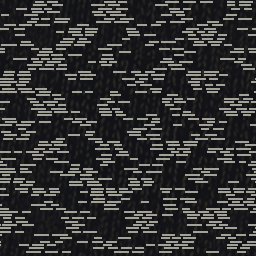
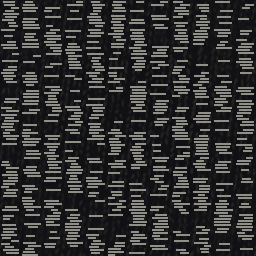
cabin777 econ w9 (from A 7.3 / B 7.3): diamond rebuilt as crisp serrated dash-run diamonds on a dominant navy ground (w8 holes reverted), mosaic rebuilt as an axis-aligned staggered column grid of dash cells, fleck pads restored on fleck backs, lighter satin covers with a hem band, back-top centre s
- y_diamond: 0.045-0.06 m stepped diamonds of 2 px dash runs with jittered ends, ~35 % of lattice sites empty, bright
  specks inside, lift (3.5, 3.3, 2.6), ground darkened 15 % (w9 A + B: light area 0.46-0.49 vs 0.10-0.22, p90/p50
  1.37 vs 2.1); tile light area 0.18
- y_mosaic: 12 x 9 cells (16.7 x 22 mm), alternate columns offset half a cell, dense 48 % / sparse 22 %, 1 px seams
  (w9 A: diagonal clumps; B: leopard print from empty sparse cells)
- Pads: fleck backs -> fleck (w9 B 4x crop of y_47300); yCover #535b7c r 0.38 (w9 A: covers 1.25-1.7x the backs);
  yFabric #55607f (A / B tick measurements disagree, set between)
- Cover hem band + stitch; 0.12 m centre strip from pad top to back top (y_47306); pillow corners pulled out +
  centre dimple; net of 24 + 11 thin quads per pouch, dark hems under the flap, charcoal strap; bezel #2a2932 with a
  #5a6072 frame ring, screen raised 4 mm (chin 11 %)

Shared-file edits: 09_seats.js (SEATMAT yFabric, yCover), test/make_swatches.py (y_diamond, y_mosaic),
tex/tex_y_diamond.png, tex/tex_y_mosaic.png.

Claude-Session: https://claude.ai/code/session_01CDNepdnu7dWZvBrRdxsgp9

diff --git a/cabin777/src/09a_econ.js b/cabin777/src/09a_econ.js
@@ -48,8 +48,8 @@ function econSeat(B, x0, lod, opts = {}) {
   // w6 B: narrower pad (0.355) with an undercut at its foot, so a shadow line and a margin of back fabric outline it
   // (y_47300); w6 A: each cushion in a different weave from its back (y_47306: diamond back / mosaic pad, tick / fleck,
   // mosaic / diamond); fleck backs keep fleck pads (y_47300 seats 2 / 4) [V]
-  // w8 B: fleck backs carry a light mosaic pad (y_47300 seats 2 / 4)
-  const HF = F === SEATMAT.yFabricB || F === SEATMAT.yFabricD ? SEATMAT.yFabricC : F === SEATMAT.yFabricC ? SEATMAT.yFabricB : SEATMAT.yHead;
+  // w9 B: fleck backs keep fleck pads (a 4x crop of y_47300 seats 2 / 4 shows fine speckle; the w8 mosaic pads were wrong)
+  const HF = F === SEATMAT.yFabricB ? SEATMAT.yFabricC : F === SEATMAT.yFabricC ? SEATMAT.yFabricB : SEATMAT.yHead;
   // w7 A + B: a U-shaped pad ~0.39 wide (0.90-0.96 of the back in y_47306 / 47302, sans 13) - a centre panel behind the
   // cover and two round wing bolsters ~2 cm proud of it at both ends; 0.025 lower so the back rises ~5.5 cm above the
   // cover fold (y_47306 0.053-0.073, y_47301 ~0.06; the fold showed above the hood from behind) [D]
@@ -67,7 +67,12 @@ function econSeat(B, x0, lod, opts = {}) {
   if (lod) return;
   // small ANA mark in the flap's lower corner (viewer's right from the front, y_47306); w5 B: a thin grey logotype, not a sticker
   B.add(gQuad(0.014, 0.006), M4.mul(BH, M4.trs(-0.105, 0.60, -0.1005, Math.PI)), { c: '#5a6079', r: 0.45 });
-  B.add(gQuad(0.24, 0.0012), M4.mul(BH, M4.trs(0, 0.592, -0.1003, Math.PI)), { c: '#30354a', r: 0.5 });   // stitch line
+  // w9 A: a stitched hem band ~10 % of the cover height, a shade lighter and glossier (y_47306)
+  B.add(gQuad(0.253, 0.02), M4.mul(BH, M4.trs(0, 0.596, -0.1003, Math.PI)), { c: '#5d6585', r: 0.32 });
+  B.add(gQuad(0.24, 0.0012), M4.mul(BH, M4.trs(0, 0.6065, -0.1006, Math.PI)), { c: '#2c3146', r: 0.5 });   // stitch line
+  // w9 A: a ~0.12 m centre strip in a contrasting weave runs from the pad top to the back top (headrest track cover,
+  // y_47306 right / middle seats) [V]
+  loftAt(B, [SEC(0.778, 0.12, 0.004, -0.032, 0.002), SEC(0.818, 0.12, 0.004, -0.0275, 0.002), SEC(0.842, 0.115, 0.004, -0.0235, 0.002)], BH, F === SEATMAT.yFabricB ? SEATMAT.yFabric : SEATMAT.yFabricB, 1);
   const on = (y, dz = 0, dx = 0) => M4.mul(BH, M4.trs(dx, y, zr(y) + dz));   // on the rear face
   // navy pillow resting on the cushion at the crease, ~0.35 x 0.24 (y_47300 aspect 0.65-0.7; sans 14 ~0.8 of the pan) [D]
   // w5 B: soft pillow, not a bevelled slab - a squashed sphere with pinched corners, slightly concave sides and a ~7 cm
@@ -78,8 +83,9 @@ function econSeat(B, x0, lod, opts = {}) {
       const sx = g.p[k], sy = g.p[k + 1], sz = g.p[k + 2], l = Math.hypot(sx, sz) || 1;
       const X = Math.sign(sx) * Math.pow(Math.abs(sx / l), 0.45) * l, Z = Math.sign(sz) * Math.pow(Math.abs(sz / l), 0.45) * l;
       // w6: wider (0.39 = 0.8 of the pan, y_47300 0.81 / sans 14 0.83), bow-tie outline with pinched corners
-      g.p[k] = 0.195 * X * (1 - 0.18 * (1 - Z * Z)); g.p[k + 2] = 0.13 * Z * (1 - 0.18 * (1 - X * X));
-      g.p[k + 1] = sy * (0.004 + 0.034 * Math.sqrt(Math.max(0, (1 - Math.pow(Math.abs(X), 4)) * (1 - Math.pow(Math.abs(Z), 4)))));
+      const pull = 1 + 0.15 * Math.abs(X * Z);                                  // w9 A: corners pulled out (y_47300)
+      g.p[k] = 0.195 * X * (1 - 0.18 * (1 - Z * Z)) * pull; g.p[k + 2] = 0.13 * Z * (1 - 0.18 * (1 - X * X)) * pull;
+      g.p[k + 1] = sy * (0.004 + 0.034 * Math.sqrt(Math.max(0, (1 - Math.pow(Math.abs(X), 4)) * (1 - Math.pow(Math.abs(Z), 4))))) * (1 - 0.25 * Math.exp(-(X * X + Z * Z) / 0.08));   // + centre dimple
     }
     computeNormals(g);
     B.add(g, M4.mul(BH, M4.trs(0, 0.14, -0.10, 0, -80 * DEG)), SEATMAT.yPillow);
@@ -92,9 +98,9 @@ function econSeat(B, x0, lod, opts = {}) {
     // 13.3 in touchscreen (0.294 x 0.166) in a black glass border 0.316 x 0.205 set flush in the hood face, top ~0.03
     // below the hood's rounded top (y_47305: 600 x 390 px at 1905 px/m, colour (29,26,38); 55 px of shell above) [D]
     const SY = 0.7275;
-    B.add(gRBox(0.322, 0.211, 0.004, 0.007, 1), on(SY, -0.0005), { c: '#9ea2a8', r: 0.5 });      // shadow gap round the glass
-    B.add(gRBox(0.316, 0.205, 0.004, 0.006, 1), on(SY, 0.001), { c: '#24232b', r: 0.12 });   // w8 A: glossy dark-grey glass (y_47305), not flat black
-    B.add(gQuad(0.294, 0.166), on(SY, 0.0035), SEATMAT.screen, atlasUV('screen'));
+    B.add(gRBox(0.328, 0.217, 0.004, 0.008, 1), on(SY, -0.0005), { c: '#5a6072', r: 0.35 });     // w9 A: ~4 mm lighter grey frame ring round the glass (y_47305)
+    B.add(gRBox(0.316, 0.205, 0.004, 0.006, 1), on(SY, 0.001), { c: '#2a2932', r: 0.12 });   // w8 A: glossy dark-grey glass (y_47305), not flat black; w9 A #16161c rendered vs #1d1926
+    B.add(gQuad(0.294, 0.166), on(SY + 0.004, 0.0035), SEATMAT.screen, atlasUV('screen'));   // w9 B: chin 11 % of the glass height (y_47305)
     // IFE handset docked in a dark recess 0.04 below the bezel (y_47305, sanspotter 15/27): dark-navy pill with an oval
     // key, a D-pad ring + OK, +/- rockers, a round key and four colour keys in a diamond (blue top, green left, red
     // right, yellow bottom) [D]
@@ -154,13 +160,14 @@ function econSeat(B, x0, lod, opts = {}) {
     // (sans 23); no alpha here, so a lighter mesh tone lets the grille pattern read as holes [D]
     // w7 A + B: a dark back panel behind a lattice of thin strands, so the net reads as see-through mesh (sans 20 / 23)
     // w8 A + B: two bowed mesh pouches either side of a grey centre strap, each with a pleated grey hem (sans 20 / 22 / 23)
-    B.add(gQuad(0.31, 0.07), on(0.05, 0.011), { c: '#1a1b1f', r: 0.9 });
+    B.add(gQuad(0.31, 0.07), on(0.05, 0.011), { c: '#121316', r: 0.9 });
     for (const px of [-0.08, 0.08]) {
-      for (let i = 0; i < 8; i++) { const u = i / 7; B.add(gBox(0.0025, 0.07, 0.002), on(0.05, 0.016 + 0.008 * Math.sin(u * Math.PI), px - 0.07 + u * 0.14), { c: '#2e3036', r: 0.8 }); }
-      for (let j = 0; j < 4; j++) B.add(gBox(0.14, 0.0025, 0.002), on(0.022 + j * 0.017, 0.021), { c: '#2e3036', r: 0.8 });
-      for (let k = 0; k < 9; k++) B.add(gCyl(0.006, 0.006, 0.0165, 8), M4.mul(on(0.084, 0.026 + 0.002 * (k % 2), px - 0.066 + k * 0.0165), M4.trs(0, 0, 0, 0, 0, Math.PI / 2)), { c: '#7b7e85', r: 0.9, l: LAYER.fabric });
+      // w9 A + B: a fine net (~6 mm cells, sans 20) of thin strands on quads; dark pleated hems just under the flap
+      for (let i = 0; i < 24; i++) { const u = i / 23; B.add(gQuad(0.0012, 0.068), on(0.05, 0.016 + 0.008 * Math.sin(u * Math.PI), px - 0.07 + u * 0.14), { c: '#34363c', r: 0.8 }); }
+      for (let j = 0; j < 11; j++) B.add(gQuad(0.14, 0.0012), on(0.018 + j * 0.006, 0.022), { c: '#34363c', r: 0.8 });
+      for (let k = 0; k < 9; k++) B.add(gCyl(0.006, 0.006, 0.0165, 8), M4.mul(on(0.075, 0.024 + 0.002 * (k % 2), px - 0.066 + k * 0.0165), M4.trs(0, 0, 0, 0, 0, Math.PI / 2)), { c: '#4a4c52', r: 0.9, l: LAYER.fabric });
     }
-    B.add(gBox(0.02, 0.078, 0.004), on(0.047, 0.023), { c: '#8a8d94', r: 0.7 });
+    B.add(gBox(0.02, 0.078, 0.004), on(0.047, 0.026), { c: '#3a3c42', r: 0.7 });   // w9 B: charcoal strap
   }
   // footrest for the passenger behind: two off-white hanger arms clamped to the rear spreader tube, carrying ribbed
   // aluminium pedals (y_47304)
@@ -257,7 +264,7 @@ function econUnitFar(n, rot = 0) {
     B.add(gRBox(0.42, 0.86, 0.08, 0.035, 1), M4.mul(BH, M4.trs(0, 0.43, -0.005)), f);   // same mix as econUnit
     B.add(gRBox(0.446, 0.62, 0.045, 0.015, 1), M4.mul(BH, M4.trs(0, 0.25, 0.058)), SEATMAT.yShell);
     B.add(gRBox(0.40, 0.40, 0.12, 0.015, 1), M4.mul(BH, M4.trs(0, 0.68, 0.062)), SEATMAT.yShell);    // screen hood, capping the back top (w5; w6 0.40, tight corners)
-    B.add(gRBox(0.39, 0.2, 0.11, 0.04, 1), M4.mul(BH, M4.trs(0, 0.675, -0.058)), f === SEATMAT.yFabricB || f === SEATMAT.yFabricD ? SEATMAT.yFabricC : f === SEATMAT.yFabricC ? SEATMAT.yFabricB : SEATMAT.yHead);
+    B.add(gRBox(0.39, 0.2, 0.11, 0.04, 1), M4.mul(BH, M4.trs(0, 0.675, -0.058)), f === SEATMAT.yFabricB ? SEATMAT.yFabricC : f === SEATMAT.yFabricC ? SEATMAT.yFabricB : SEATMAT.yHead);
     B.add(gBox(0.255, 0.225, 0.01), M4.mul(BH, M4.trs(0, 0.6625, -0.11)), SEATMAT.yCover);
     B.add(gQuad(0.316, 0.205), M4.mul(BH, M4.trs(0, 0.7275, 0.1245)), SEATMAT.bezel);
     B.add(gQuad(0.294, 0.166), M4.mul(BH, M4.trs(0, 0.7275, 0.1265)), SEATMAT.screen, atlasUV('screen'));

diff --git a/cabin777/src/09_seats.js b/cabin777/src/09_seats.js
@@ -14,7 +14,7 @@ const SEATMAT = {
   // econ QA w1: #5468a8 rendered too pure a blue (q15 R/B 0.33, G/B 0.46 vs y_47300 0.44 / 0.58) -> greyer #6a79a8 [D]
   // econ w5 (A + B high): after the lighting r3 AO lift the tick / diamond seats rendered 1.6-2x too light (q15 L50 103 / 114
   // vs y_47300 backs 46-92); mosaic (L50 59) is the anchor, target tick ~70, diamond ~80, fleck ~55 [D]
-  yFabric: { c: photoBase('#5a6587', 'y_tick'), r: 0.9, l: LAYER.yJacq },   // w7 A: q15 L50 55 G/B 0.55 vs y_47300 68-91 / 0.62-0.66
+  yFabric: { c: photoBase('#55607f', 'y_tick'), r: 0.9, l: LAYER.yJacq },   // w7 A: q15 L50 55 G/B 0.55 vs y_47300 68-91 / 0.62-0.66; w9 B: L50 66 vs 51 at the same seat (A w8: 77 vs 78) -> between
   yFabricB: { c: photoBase('#565e82', 'y_diamond'), r: 0.9, l: LAYER.yDiamond },
   yFabricC: { c: photoBase('#56638b', 'y_mosaic'), r: 0.9, l: LAYER.yMosaicP },   // third variant: dash mosaic (y_47302 left, y_47306 right); w6 A: photo-measured dash checker tile, was blobby procedural layer 11; w7 A: q15 #1e2a62 L 41 vs y_47306 #384877 L 60 -> greyer, lighter; w8 B: q15 L50 47 vs 63-80 -> lighter
   yFabricD: { c: photoBase('#4a5679', 'y_fleck'), r: 0.9, l: LAYER.yFleck },   // econ w5: petal fleck (y_47300 seats 2 / 4, sans 14 L50 48); w6 A: G/B 0.45 vs 0.54 -> greener; w8 A + B: L50 37 vs 47-53 -> lighter
@@ -28,7 +28,7 @@ const SEATMAT = {
   yHead: { c: photoBase('#566088', 'y_fleck'), r: 0.9, l: LAYER.yFleck },
   // slate-grey leatherette cover, lighter + greyer than the fabric (y_47302 #474960-#4d526f, y_47306 #445072,
   // y_47301 #434765; QA r2 was #3e4661 -> rendered as black slabs)
-  yCover: { c: '#474c5e', r: 0.45, l: LAYER.plastic },     // econ w2: smooth leatherette; w5: q15 L 110 vs y_47300 #272d48 L 47 -> darker; w6 A: q16 cover/back 0.58 vs y_47301 0.82 -> a shade lighter; w7 A + B: R/B 0.46 vs 0.52-0.74 -> slate
+  yCover: { c: '#535b7c', r: 0.38, l: LAYER.plastic },     // econ w2: smooth leatherette; w5: q15 L 110 vs y_47300 #272d48 L 47 -> darker; w6 A: q16 cover/back 0.58 vs y_47301 0.82 -> a shade lighter; w7 A + B: R/B 0.46 vs 0.52-0.74 -> slate; w9 A: q16 L50 57-66 vs y_47301 / 47303 / 47306 67-104, covers 1.25-1.7x the backs -> lighter, satin
   yShell: { c: '#d9dbde', r: 0.42, l: LAYER.plastic },
   yShellDark: { c: '#c2c5c9', r: 0.5, l: LAYER.plastic },
   yTray: { c: '#cfd2d6', r: 0.4, l: LAYER.plastic },

diff --git a/cabin777/test/make_swatches.py b/cabin777/test/make_swatches.py
@@ -216,47 +216,40 @@ def make(name, photo, box, size, rot=0):
 
 
 def y_diamond():
-    """econ QA w1: the Y diamond variant, synthesised on the tick weave. The old photo crop (y_47306 far-left seat, seen
-    at ~55 deg and upsampled 2x) tiled into blurry snowflakes. The real fabric (y_47306 left seat, y_47302 middle seat) is
-    the same navy tick ground with a staggered lattice of pale, stepped (ikat-like) diamonds [D].
-    econ w5 (A + B): figure and ground were inverted (light area 0.45-0.47 vs Otsu 0.10-0.15 in y_47306 / y_47302;
-    light/dark mean 1.4 vs 2.2-2.6). Now near-solid pale diamonds ~0.052 x 0.044 m with ~5 mm steps on a dominant navy
-    ground, same-row pitch ~0.087 m (y_47302 middle seat: ~4 per 0.34 m), 6 staggered rows per 0.26 m tile -> light
-    area ~0.3; ticks kept at ~30 % inside the diamonds [D]"""
+    """econ QA w1: the Y diamond variant, synthesised on the tick weave (the old photo crop tiled into snowflakes).
+    w5-w8 history: inverted figure/ground (w5), plus-shaped stars on a square grid (w6), soft holed blobs (w8).
+    econ w9 (A + B): measured on y_47306 left / y_47302 middle - crisp stepped diamonds ~0.045-0.06 m on a DOMINANT navy
+    ground (Otsu light area 0.10-0.22), high contrast (p90/p50 ~2.1, light/dark ~2.2-2.7), each figure made of short
+    horizontal light dash runs whose ends follow the 5 mm steps (serrated edges), with bright specks inside; figures sit
+    on a broken diagonal lattice (pitch 0.0867, ~35 % of sites empty). Ground: the tick tile quietened to 40 % contrast
+    and darkened ~15 % [D]"""
     t = np.asarray(Image.open(os.path.join(root, 'tex/tex_y_tick.png'))).astype(np.float32) / 255 * ENC['y_tick']
     n = S
     v, u = np.mgrid[0:n, 0:n] / n            # tile coords, 0.26 m
     rng = np.random.default_rng(7)
     m = np.zeros((n, n), np.float32)
     step = 0.005 / 0.26
-    # econ w7 A + B: a fixed small size on a square grid read as a grid of plus-shaped stars; the photos show stepped
-    # diamonds of mixed size (0.03-0.065 m) nearly touching tip to tip along both diagonals, with gaps (a broken lattice)
-    # -> diagonal lattice of pitch 0.0867 (3 x 3 + centred sites per 0.26 tile), 25 % of sites dropped, half-diagonals
-    # 0.03-0.046 m (tips ~touching on the 0.061 m diagonal) [D]
     sites = [((a + o) / 3, (b + o) / 3) for o in (0, 0.5) for a in range(3) for b in range(3)]
-    sites = [c for c in sites if rng.random() > 0.25]
+    sites = [c for c in sites if rng.random() > 0.35]
     for cu, cv in sites:
-        hd = rng.uniform(0.038, 0.05)           # minus one 5 mm ceil step -> 0.065-0.09 m figures, tips chaining (w8 A + B)
+        hd = rng.uniform(0.027, 0.035)           # minus a 5 mm ceil step -> ~0.045-0.06 m figures
         for ou in (-1, 0, 1):
             for ov in (-1, 0, 1):
-                # econ w6 (A + B): ceil, not floor - floor grew every diamond by one step (light area 0.54 vs Otsu 0.07-0.24)
+                # w6: ceil, not floor - floor grew every diamond by one step
                 du = np.ceil(np.abs(u - cu - ou) / step) * step
                 dv = np.ceil(np.abs(v - cv - ov) / step) * step
                 m = np.maximum(m, (du / (hd / 0.26) + dv / (hd * 0.87 / 0.26) <= 1).astype(np.float32))
-    # ragged ikat edges: a little value noise on the mask, then a 1 px soften
-    m = np.clip(m + (rng.random((n, n)) - 0.5) * 0.5 * (np.asarray(Image.fromarray((m * 255).astype(np.uint8)).filter(ImageFilter.MaxFilter(3)).filter(ImageFilter.FIND_EDGES)) > 0), 0, 1)
-    m = (m > 0.5).astype(np.float32)
-    m = np.asarray(Image.fromarray((m * 255).astype(np.uint8)).filter(ImageFilter.GaussianBlur(0.4))).astype(np.float32)[..., None] / 255
-    m = m * (0.8 + 0.2 * _blur_wrap(rng.random((n, n)), 1.0)[..., None] / 0.5).clip(0.7, 1.0)   # w7 A: mottled ~3 mm fill
-    # w8 A: lacy, broken ikat - ~35 % of each figure punched out in ~3 mm holes, so the light area drops to ~0.15-0.2
-    hole = _blur_wrap(rng.random((n, n)), 2.0); m = m * (hole > np.percentile(hole, 35))[..., None]
-    # econ w6 B: quieter tick ground (x0.4) so the ticks don't join the figure; brighter blocks keep hi/lo ~1.9 (y_47306 / 47302)
+    # dash runs: 2 px light rows with a 1 px dark gap, each run's ends jittered +-1 px so the steps read serrated
+    rows = (np.arange(n) % 3 < 2).astype(np.float32)[:, None]
+    jit = np.roll(m, 1, 1) * np.roll(m, -1, 1) + (rng.random((n, n)) < 0.5) * m
+    m = m * rows * np.clip(jit, 0, 1)
+    m = m[..., None]
     tm = t.reshape(-1, 3).mean(0)
-    lift = np.array([2.2, 2.0, 1.6], np.float32)          # pale lavender-grey blocks (y_47302 / y_47306); w8 A: lower contrast
-    inside = lift * (0.7 + 0.3 * t / tm)
-    ratio = (tm + 0.4 * (t - tm)) * (1 - m) + inside * m
-    sp = (rng.random((n, n)) < 0.012)[..., None]           # w8 A: sparse bright specks over the whole cloth
-    ratio = np.where(sp, np.array([4.5, 4.3, 3.6], np.float32), ratio)
+    ground = 0.85 * (tm + 0.4 * (t - tm))
+    lift = np.array([3.5, 3.3, 2.6], np.float32)          # pale lavender dash runs (y_47302 / 47306)
+    ratio = ground * (1 - m) + lift * m
+    sp = ((rng.random((n, n)) < 0.18) * (m[..., 0] > 0))[..., None]    # bright specks inside the figures (~8 % of the area figures cover)
+    ratio = np.where(sp, np.array([5.0, 4.8, 4.0], np.float32), ratio)
     ratio /= ratio.reshape(-1, 3).mean(0)
     out = np.clip(ratio / ENC['y_diamond'], 0, 1)
     Image.fromarray((out * 255 + 0.5).astype(np.uint8)).save(os.path.join(root, 'tex', 'tex_y_diamond.png'))
@@ -300,35 +293,32 @@ def y_fleck():
 
 
 def y_mosaic():
-    """econ w6 (A medium): the third Y fabric was the procedural layer 11 and read as blobby camouflage. The real weave
-    (y_47306 right seat, y_47302 left seat) is horizontal pale dashes ~6-12 x 1.2 mm, dense (~35 % cover) and sparse (~8 %)
-    in alternating rectangular cells ~30 x 20 mm with jittered edges, p90/p50 ~2.1, on the navy tick ground at ~25 %
-    contrast; lift (7, 7, 5); 0.2 m tile [D]"""
+    """econ w6: the third Y fabric (was blobby procedural layer 11). econ w9 (A + B): measured on y_47306 right back /
+    y_47300 pans - axis-aligned rectangular cells ~16 x 22 mm in columns, alternate columns offset half a cell, every
+    cell filled with fine horizontal pale dashes (dense cells ~48 %, sparse ~22 % - no empty cells, which read as
+    leopard spots / diagonal chevrons), dashes 2 px (~1.6 mm), 0.4-0.9 of the cell width, a 1 px gap at the cell borders
+    so the column seams show; blob median ~0.2 cm2; near-white desaturated dashes, lift (7, 7, 6); 0.2 m tile [D]"""
     n = S; size = 0.2; mm = n / (size * 1000)
     t = np.asarray(Image.open(os.path.join(root, 'tex/tex_y_tick.png'))).astype(np.float32) / 255 * ENC['y_tick']
     ground = 0.75 + 0.25 * t / t.reshape(-1, 3).mean(0)
     rng = np.random.default_rng(5)
     m = np.zeros((n, n), np.float32)
-    # checker of cells 30 x 20 mm (0.2 m tile -> 6.67 x 10: use 7 x 10 cells, 28.6 x 20 mm) with per-cell density
-    # w7 B: a rectangular grid of cells ~25 x 18 mm (8 x 11 per 0.2 m tile)
-    NI, NJ = 8, 11
+    NI, NJ = 12, 9                                   # 12 columns of 16.7 mm, 9 rows of 22 mm per 0.2 m tile
     cw, ch = n / NI, n / NJ
-    dens = np.array([[0.42 if (i + j) % 2 else 0.06 for i in range(NI)] for j in range(NJ)]) * rng.uniform(0.8, 1.2, (NJ, NI))
-    pitch = 2.6 * mm                                   # dash rows ~2.6 mm apart (y_47306 right seat)
-    for r in range(int(n / pitch)):
-        yc = (r + 0.5) * pitch
-        x = rng.random() * 4 * mm
-        while x < n:
-            L = rng.uniform(6, 12) * mm
-            cx = (x + L / 2) % n
-            j = int(yc / ch) % NJ; i = int(cx / cw) % NI
-            if rng.random() < dens[j, i] / 0.42 * 0.75:
-                y0 = int(yc); y1 = y0 + 2                   # w8 A + B: ~1.6 mm dash (2 px) so it survives minification
-                xs = np.arange(int(x), int(x + L)) % n
-                m[max(y0, 0):min(y1, n), xs] = 1
-            x += L + rng.uniform(1.5, 4) * mm
-    m = m[..., None]                                   # w7 A: crisp, no blur
-    lift = np.array([7.0, 7.0, 6.0], np.float32)          # near-white dashes (y_47306 right seat); w8 A: desaturated
+    for i in range(NI):
+        x0 = int(round(i * cw)); x1 = int(round((i + 1) * cw))
+        for j in range(NJ):
+            y0 = (j + (0.5 if i % 2 else 0)) * ch
+            dense = 0.48 if (j + (i // 2)) % 2 == 0 else 0.22
+            dense *= rng.uniform(0.85, 1.15)
+            for r in range(int(ch // 3)):
+                yy = int(y0 + 1 + r * 3) % n
+                if rng.random() > dense / 0.5: continue
+                L = int(rng.uniform(0.4, 0.9) * (x1 - x0 - 2))
+                xa = x0 + 1 + int(rng.random() * max(1, (x1 - x0 - 2 - L)))
+                m[yy:yy + 2, xa:xa + L] = 1
+    m = m[..., None]
+    lift = np.array([7.0, 7.0, 6.0], np.float32)
     ratio = ground * (1 - m) + lift * m
     ratio /= ratio.reshape(-1, 3).mean(0)
     out = np.clip(ratio / ENC['y_mosaic'], 0, 1)
